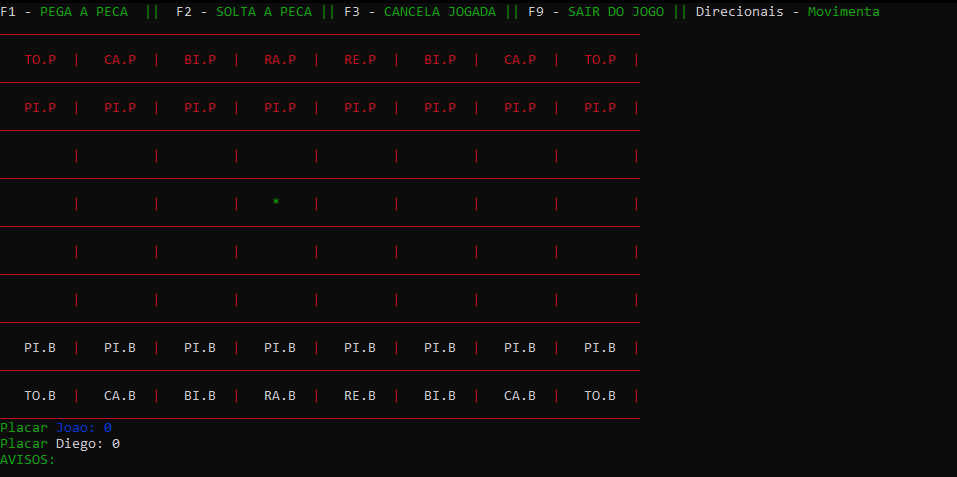
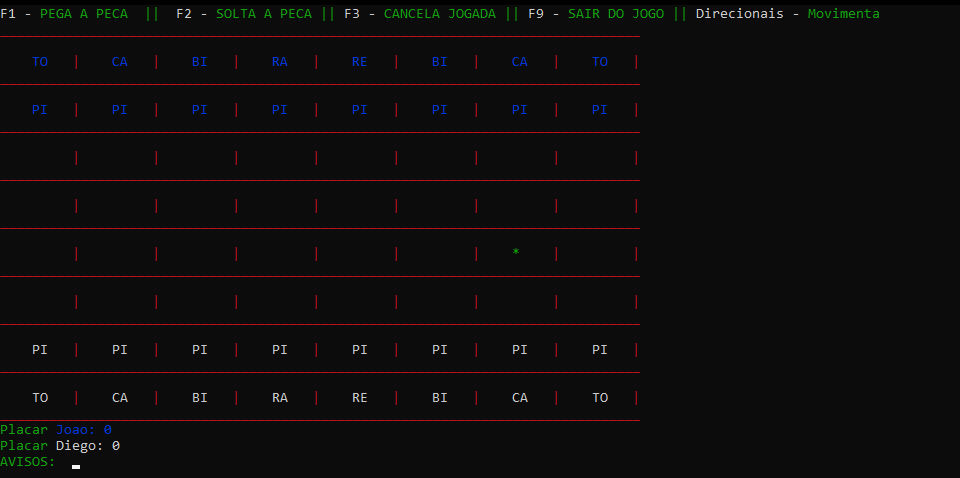
Alterações de interface e correções
08/04/2021

diff --git a/JogoXadrez/PecaBispo.cpp b/JogoXadrez/PecaBispo.cpp
@@ -13,7 +13,7 @@ extern int		globalPlacarPretas,
 extern char		globalAvisos[1000];
 
 
-void soltaPecaAposValidacoes(char** tabuleiroBackEnd) {
+void soltaPecaAposValidacoesBispo(char** tabuleiroBackEnd) {
 	//RETIRO A PECA DO LOCAL ANTERIOR 
 	tabuleiroBackEnd[globalLinhaPecaSelecionada][globalColunaPecaSelecionada] = VAZIO;
 
@@ -58,7 +58,7 @@ bool PecaBispo::validarJogadaBispoDireita(char** tabuleiroBackEnd) {
 
 			if (tabuleiroBackEnd[linha][coluna] == PECA_SELECIONADA)
 			{
-				soltaPecaAposValidacoes(tabuleiroBackEnd);
+				soltaPecaAposValidacoesBispo(tabuleiroBackEnd);
 				return true;
 			}
 			else
@@ -75,7 +75,7 @@ bool PecaBispo::validarJogadaBispoDireita(char** tabuleiroBackEnd) {
 
 			if (tabuleiroBackEnd[linha][coluna] == PECA_SELECIONADA)
 			{
-				soltaPecaAposValidacoes(tabuleiroBackEnd);
+				soltaPecaAposValidacoesBispo(tabuleiroBackEnd);
 				return true;
 			}
 			else
@@ -98,7 +98,7 @@ bool PecaBispo::validarJogadaBispoEsquerda(char** tabuleiroBackEnd) {
 			if (tabuleiroBackEnd[linha][coluna] == PECA_SELECIONADA)
 			{
 
-				soltaPecaAposValidacoes(tabuleiroBackEnd);
+				soltaPecaAposValidacoesBispo(tabuleiroBackEnd);
 				return true;
 			}
 			else
@@ -115,7 +115,7 @@ bool PecaBispo::validarJogadaBispoEsquerda(char** tabuleiroBackEnd) {
 
 			if (tabuleiroBackEnd[linha][coluna] == PECA_SELECIONADA)
 			{
-				soltaPecaAposValidacoes(tabuleiroBackEnd);
+				soltaPecaAposValidacoesBispo(tabuleiroBackEnd);
 				return true;
 			}
 			else
@@ -134,6 +134,8 @@ bool PecaBispo::validarJogadaBispoCaptura(char** tabuleiroBackEnd) {
 	{
 		return validarJogadaBispoCapturaEsquerda(tabuleiroBackEnd);
 	}
+
+	return false;
 }
 
 bool PecaBispo::validarJogadaBispoCapturaDireita(char** tabuleiroBackEnd) {
@@ -144,7 +146,7 @@ bool PecaBispo::validarJogadaBispoCapturaDireita(char** tabuleiroBackEnd) {
 	//VALIDACAO DIAGONAL DIREITA ACIMA
 	for (int linha = globalLinhaPonteiro, coluna = globalColunaPonteiro, sairLoopEncadeado = false; linha >= 0 && coluna < COLUNAS && sairLoopEncadeado == false; linha--, coluna++) {
 
-		if (validarJogadaCorretaCaptura) {
+		if (validarJogadaCorretaCaptura(tabuleiroBackEnd, linha, coluna)) {
 
 			linhaPecaInimiga = linha;
 			colunaPecaInimiga = coluna;
@@ -167,7 +169,7 @@ bool PecaBispo::validarJogadaBispoCapturaDireita(char** tabuleiroBackEnd) {
 						else
 							globalPlacarBrancas++;
 
-						soltaPecaAposValidacoes(tabuleiroBackEnd);
+						soltaPecaAposValidacoesBispo(tabuleiroBackEnd);
 
 						return true;
 					}
@@ -183,7 +185,7 @@ bool PecaBispo::validarJogadaBispoCapturaDireita(char** tabuleiroBackEnd) {
 	//VALIDACAO DIAGONAL DIREITA A BAIXO
 	for (int linha = globalLinhaPonteiro, coluna = globalColunaPonteiro, sairLoopEncadeado = false; linha < LINHAS && coluna < COLUNAS && sairLoopEncadeado == false; linha++, coluna++) {
 
-		if (validarJogadaCorretaCaptura) {
+		if (validarJogadaCorretaCaptura(tabuleiroBackEnd, linha, coluna)) {
 
 			linhaPecaInimiga = linha;
 			colunaPecaInimiga = coluna;
@@ -206,7 +208,7 @@ bool PecaBispo::validarJogadaBispoCapturaDireita(char** tabuleiroBackEnd) {
 						else
 							globalPlacarBrancas++;
 
-						soltaPecaAposValidacoes(tabuleiroBackEnd);
+						soltaPecaAposValidacoesBispo(tabuleiroBackEnd);
 
 						return true;
 					}
@@ -230,7 +232,7 @@ bool PecaBispo::validarJogadaBispoCapturaEsquerda(char** tabuleiroBackEnd) {
 	//VALIDACAO DIAGONAL ESQUERDA ACIMA
 	for (int linha = globalLinhaPonteiro, coluna = globalColunaPonteiro, sairLoopEncadeado = false; linha >= 0 && coluna >= 0 && sairLoopEncadeado == false; linha--, coluna--) {
 
-		if (validarJogadaCorretaCaptura) {
+		if (validarJogadaCorretaCaptura(tabuleiroBackEnd, linha, coluna)) {
 
 			linhaPecaInimiga = linha;
 			colunaPecaInimiga = coluna;
@@ -252,7 +254,7 @@ bool PecaBispo::validarJogadaBispoCapturaEsquerda(char** tabuleiroBackEnd) {
 						else
 							globalPlacarBrancas++;
 
-						soltaPecaAposValidacoes(tabuleiroBackEnd);
+						soltaPecaAposValidacoesBispo(tabuleiroBackEnd);
 						return true;
 					}
 					else
@@ -267,7 +269,7 @@ bool PecaBispo::validarJogadaBispoCapturaEsquerda(char** tabuleiroBackEnd) {
 	//VALIDACAO DIAGONAL ESQUERDA A BAIXO
 	for (int linha = globalLinhaPonteiro, coluna = globalColunaPonteiro, sairLoopEncadeado = false; linha < LINHAS && coluna >= 0 && sairLoopEncadeado == false; linha++, coluna--) {
 
-		if (validarJogadaCorretaCaptura) {
+		if (validarJogadaCorretaCaptura(tabuleiroBackEnd, linha, coluna)) {
 
 			linhaPecaInimiga = linha;
 			colunaPecaInimiga = coluna;
@@ -290,7 +292,7 @@ bool PecaBispo::validarJogadaBispoCapturaEsquerda(char** tabuleiroBackEnd) {
 						else
 							globalPlacarBrancas++;
 
-						soltaPecaAposValidacoes(tabuleiroBackEnd);
+						soltaPecaAposValidacoesBispo(tabuleiroBackEnd);
 
 						return true;
 					}

diff --git a/JogoXadrez/Tabuleiro.cpp b/JogoXadrez/Tabuleiro.cpp
@@ -98,51 +98,51 @@ void Tabuleiro::tabuleiroUserIterface(char** tabuleiroBackEnd) {
 			for (int colunasInterface = 0; colunasInterface < TAM_COLUNAS_INTERFACE; colunasInterface++)
 			{
 				if (tabuleiroBackEnd[linhasInterface - descontoLinhasInterfaceMatriz][colunasInterface] == PECA_BRANCA_TORRE) {
-					printf("\x1b[37m   TO.B  ");
+					printf("\x1b[37m    TO   ");
 
 				}
 				else if (tabuleiroBackEnd[linhasInterface - descontoLinhasInterfaceMatriz][colunasInterface] == PECA_BRANCA_CAVALO) {
-					printf("\x1b[37m   CA.B  ");
+					printf("\x1b[37m    CA   ");
 
 				}
 				else if (tabuleiroBackEnd[linhasInterface - descontoLinhasInterfaceMatriz][colunasInterface] == PECA_BRANCA_BISPO) {
-					printf("\x1b[37m   BI.B  ");
+					printf("\x1b[37m    BI   ");
 
 				}
 				else if (tabuleiroBackEnd[linhasInterface - descontoLinhasInterfaceMatriz][colunasInterface] == PECA_BRANCA_RAINHA) {
-					printf("\x1b[37m   RA.B  ");
+					printf("\x1b[37m    RA   ");
 
 				}
 				else if (tabuleiroBackEnd[linhasInterface - descontoLinhasInterfaceMatriz][colunasInterface] == PECA_BRANCA_REI) {
-					printf("\x1b[37m   RE.B  ");
+					printf("\x1b[37m    RE   ");
 
 				}
 				else if (tabuleiroBackEnd[linhasInterface - descontoLinhasInterfaceMatriz][colunasInterface] == PECA_BRANCA_PIAO) {
-					printf("\x1b[37m   PI.B  ");
+					printf("\x1b[37m    PI   ");
 
 				}
 				else if (tabuleiroBackEnd[linhasInterface - descontoLinhasInterfaceMatriz][colunasInterface] == PECA_PRETA_TORRE) {
-					printf("\x1b[31m   TO.P  ");
+					printf("\x1b[34m    TO   ");
 
 				}
 				else if (tabuleiroBackEnd[linhasInterface - descontoLinhasInterfaceMatriz][colunasInterface] == PECA_PRETA_CAVALO) {
-					printf("\x1b[31m   CA.P  ");
+					printf("\x1b[34m    CA   ");
 
 				}
 				else if (tabuleiroBackEnd[linhasInterface - descontoLinhasInterfaceMatriz][colunasInterface] == PECA_PRETA_BISPO) {
-					printf("\x1b[31m   BI.P  ");
+					printf("\x1b[34m    BI   ");
 
 				}
 				else if (tabuleiroBackEnd[linhasInterface - descontoLinhasInterfaceMatriz][colunasInterface] == PECA_PRETA_RAINHA) {
-					printf("\x1b[31m   RA.P  ");
+					printf("\x1b[34m    RA   ");
 
 				}
 				else if (tabuleiroBackEnd[linhasInterface - descontoLinhasInterfaceMatriz][colunasInterface] == PECA_PRETA_REI) {
-					printf("\x1b[31m   RE.P  ");
+					printf("\x1b[34m    RE   ");
 
 				}
 				else if (tabuleiroBackEnd[linhasInterface - descontoLinhasInterfaceMatriz][colunasInterface] == PECA_PRETA_PIAO) {
-					printf("\x1b[31m   PI.P  ");
+					printf("\x1b[34m    PI   ");
 
 				}
 

diff --git a/JogoXadrez/PecaBase.cpp b/JogoXadrez/PecaBase.cpp
@@ -119,22 +119,22 @@ void PecaBase::soltaPeca(char** tabuleiroBackEnd) {
 
 	if (globalPecaSelecionada == PECA_BRANCA_CAVALO || globalPecaSelecionada == PECA_PRETA_CAVALO)
 	{
-		validarJogadaBispoCaptura(tabuleiroBackEnd);
+		//validarJogadaBispoCaptura(tabuleiroBackEnd);
 	}
 
 	if (globalPecaSelecionada == PECA_BRANCA_TORRE || globalPecaSelecionada == PECA_PRETA_TORRE)
 	{
-		validarJogadaBispoCaptura(tabuleiroBackEnd);
+		//validarJogadaBispoCaptura(tabuleiroBackEnd);
 	}
 
 	if (globalPecaSelecionada == PECA_BRANCA_RAINHA || globalPecaSelecionada == PECA_PRETA_RAINHA)
 	{
-		validarJogadaBispoCaptura(tabuleiroBackEnd);
+		//validarJogadaBispoCaptura(tabuleiroBackEnd);
 	}
 
 	if (globalPecaSelecionada == PECA_BRANCA_REI || globalPecaSelecionada == PECA_PRETA_REI)
 	{
-		validarJogadaBispoCaptura(tabuleiroBackEnd);
+		//validarJogadaBispoCaptura(tabuleiroBackEnd);
 	}
 
 	verificaSePiaoEvoluiu(tabuleiroBackEnd);

diff --git a/JogoXadrez/PecaBase.h b/JogoXadrez/PecaBase.h
@@ -21,8 +21,5 @@ public:
 private:
 	PecaBase(char** tabuleiroBackEnd);
 	void verificaSePiaoEvoluiu(char** tabuleiroBackEnd);
-	void validarJogadaPiao(char** tabuleiroBackEnd);
-	void validarJogadaPiaoCaptura(char** tabuleiroBackEnd);
 	void soltaPecaAposValidacoes(char** tabuleiroBackEnd);
-	void validarJogadaBispoCaptura(char** tabuleiroBackEnd);
 };
